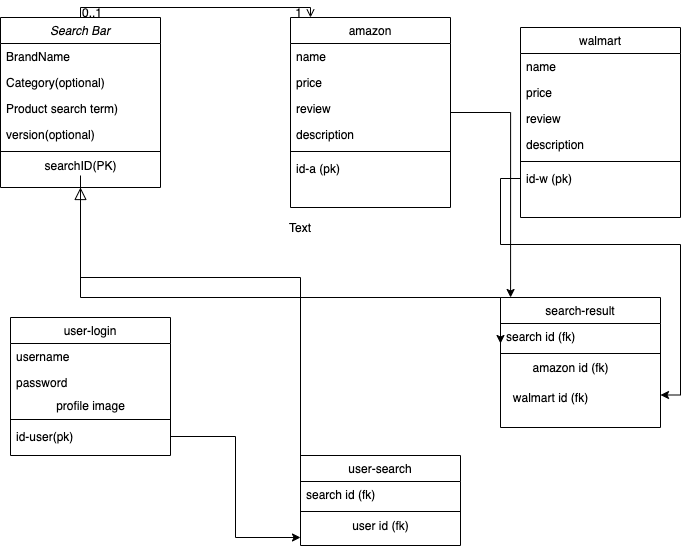
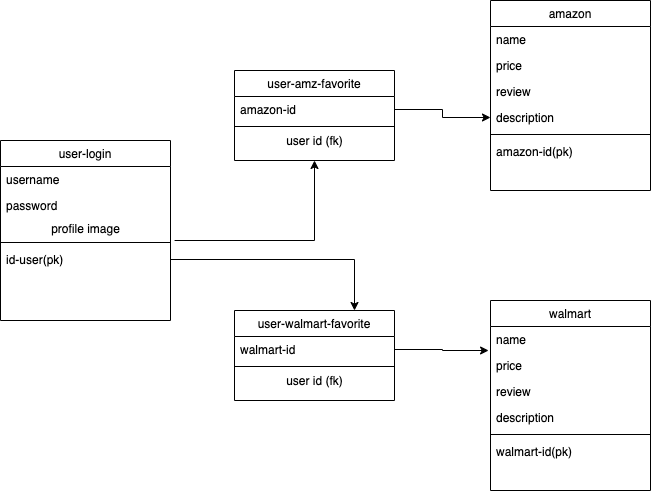
updated schema

diff --git a/readme.md b/readme.md
@@ -1,9 +1,11 @@
-#TrueDeal Project 
+#AppleTrueDeal Project 
 
 
 ##Goal
 
-- return product price/description from amazon and walmart.
+###To refine the data resources and narrow down the scope, I decide only use apple products as this demo project.
+
+- return apple product price/description from amazon and walmart.
 - combine amazon review,walmart review and give the product review rating.
 
 
@@ -30,16 +32,30 @@ https://rapidapi.com/logicbuilder/api/amazon-product-reviews-keywords
  https://developer.walmartlabs.com/docs?ref=apilist.fun
 
 ##Schema Design
-- user search bar (it will have brand,category(optional),product name, version(optional). Every search will have a search id.
+
 - amazon: id-a, name, price, review, description
 - walmart: id-w,name,price,review,description
 
 - user login : id-user, username,password,profile-photo
 
+
 - relation table 1:
-user-search id 
+user-amazon-favorite
 
 - relation-table 2:
-search id-- id-a --id-w
+user-walmart-favorite
 
 ![schema image here](./truedeal.png)
+
+##Simple Mockup
+- search bar will include: 
+Apple
+Product category: 
+product version:
+other(optional)
+
+
+
+![mockup image here](./mockup1.png)
+
+![mockup image here](./mockup2.png)
